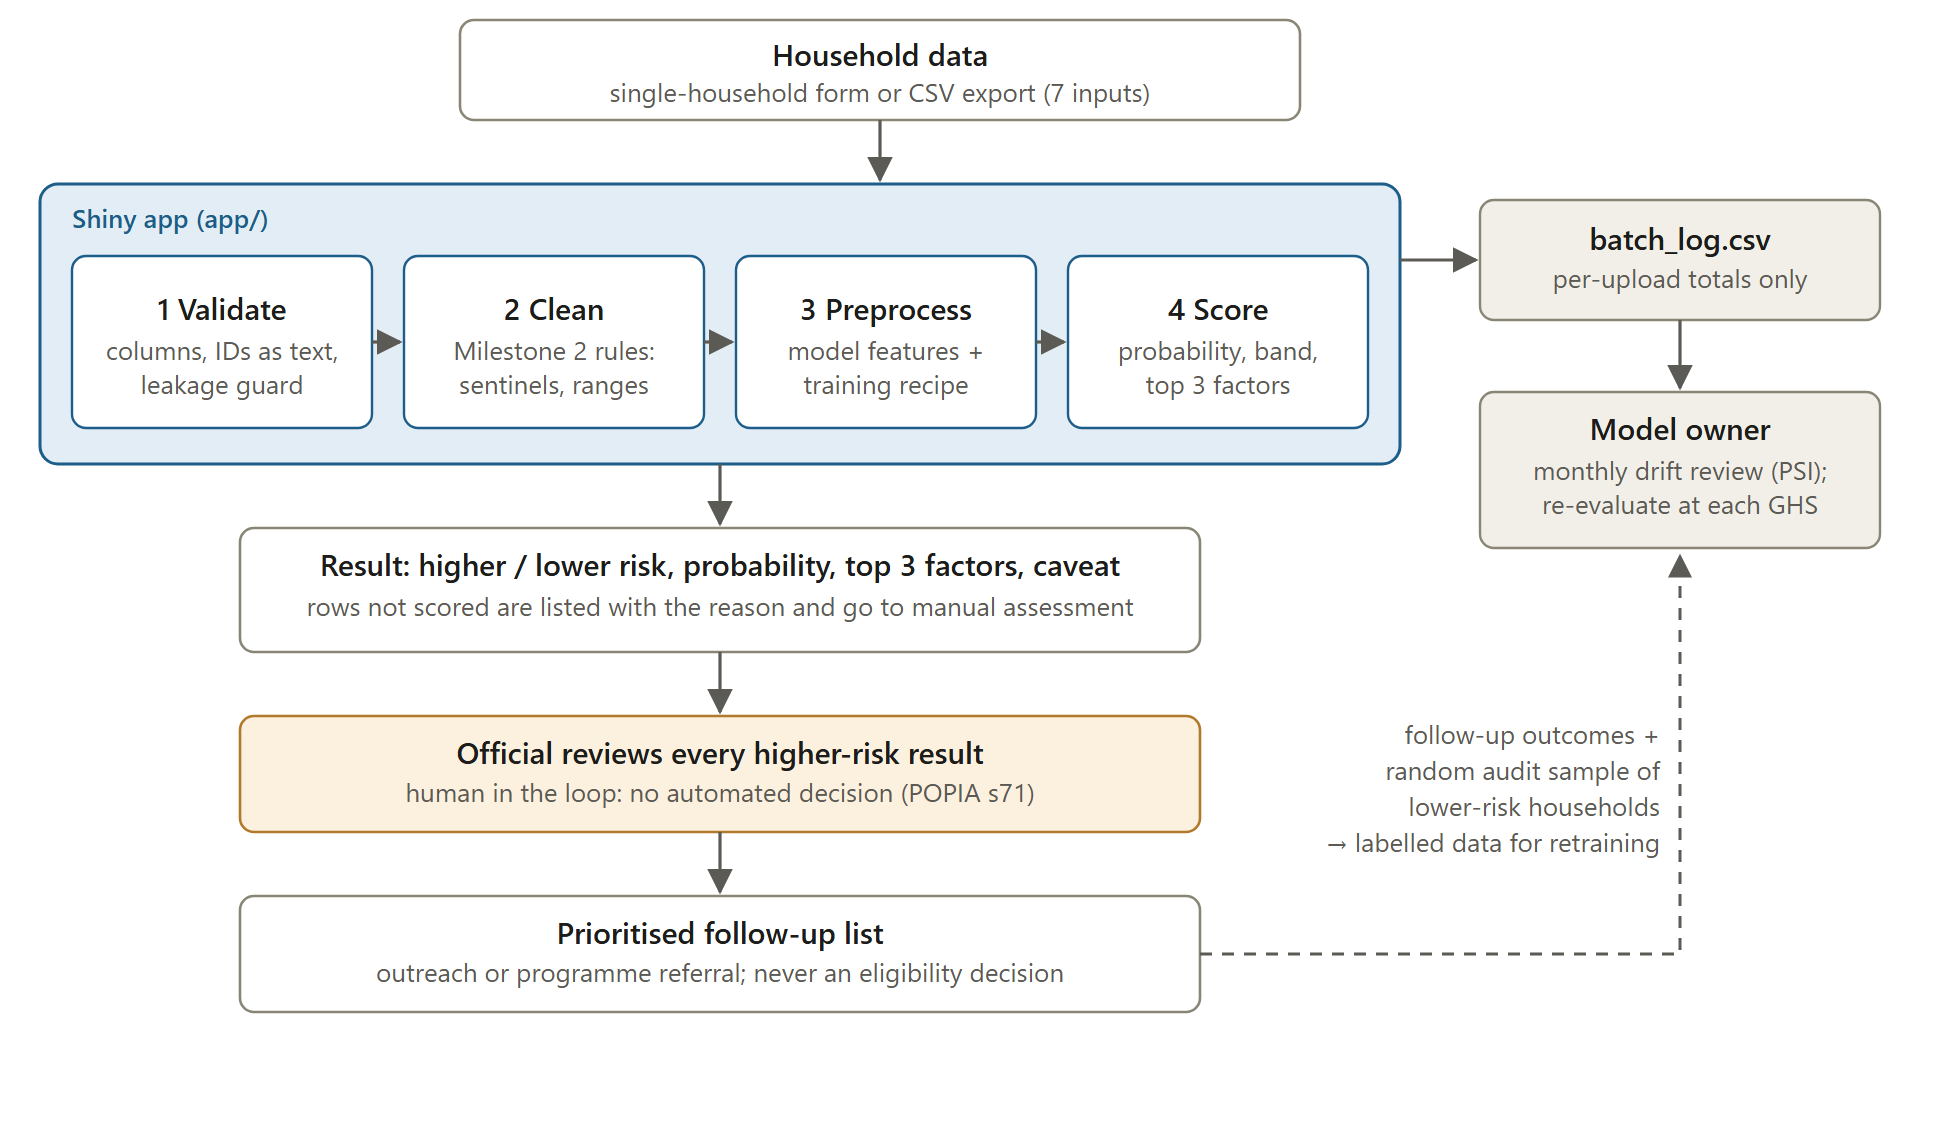
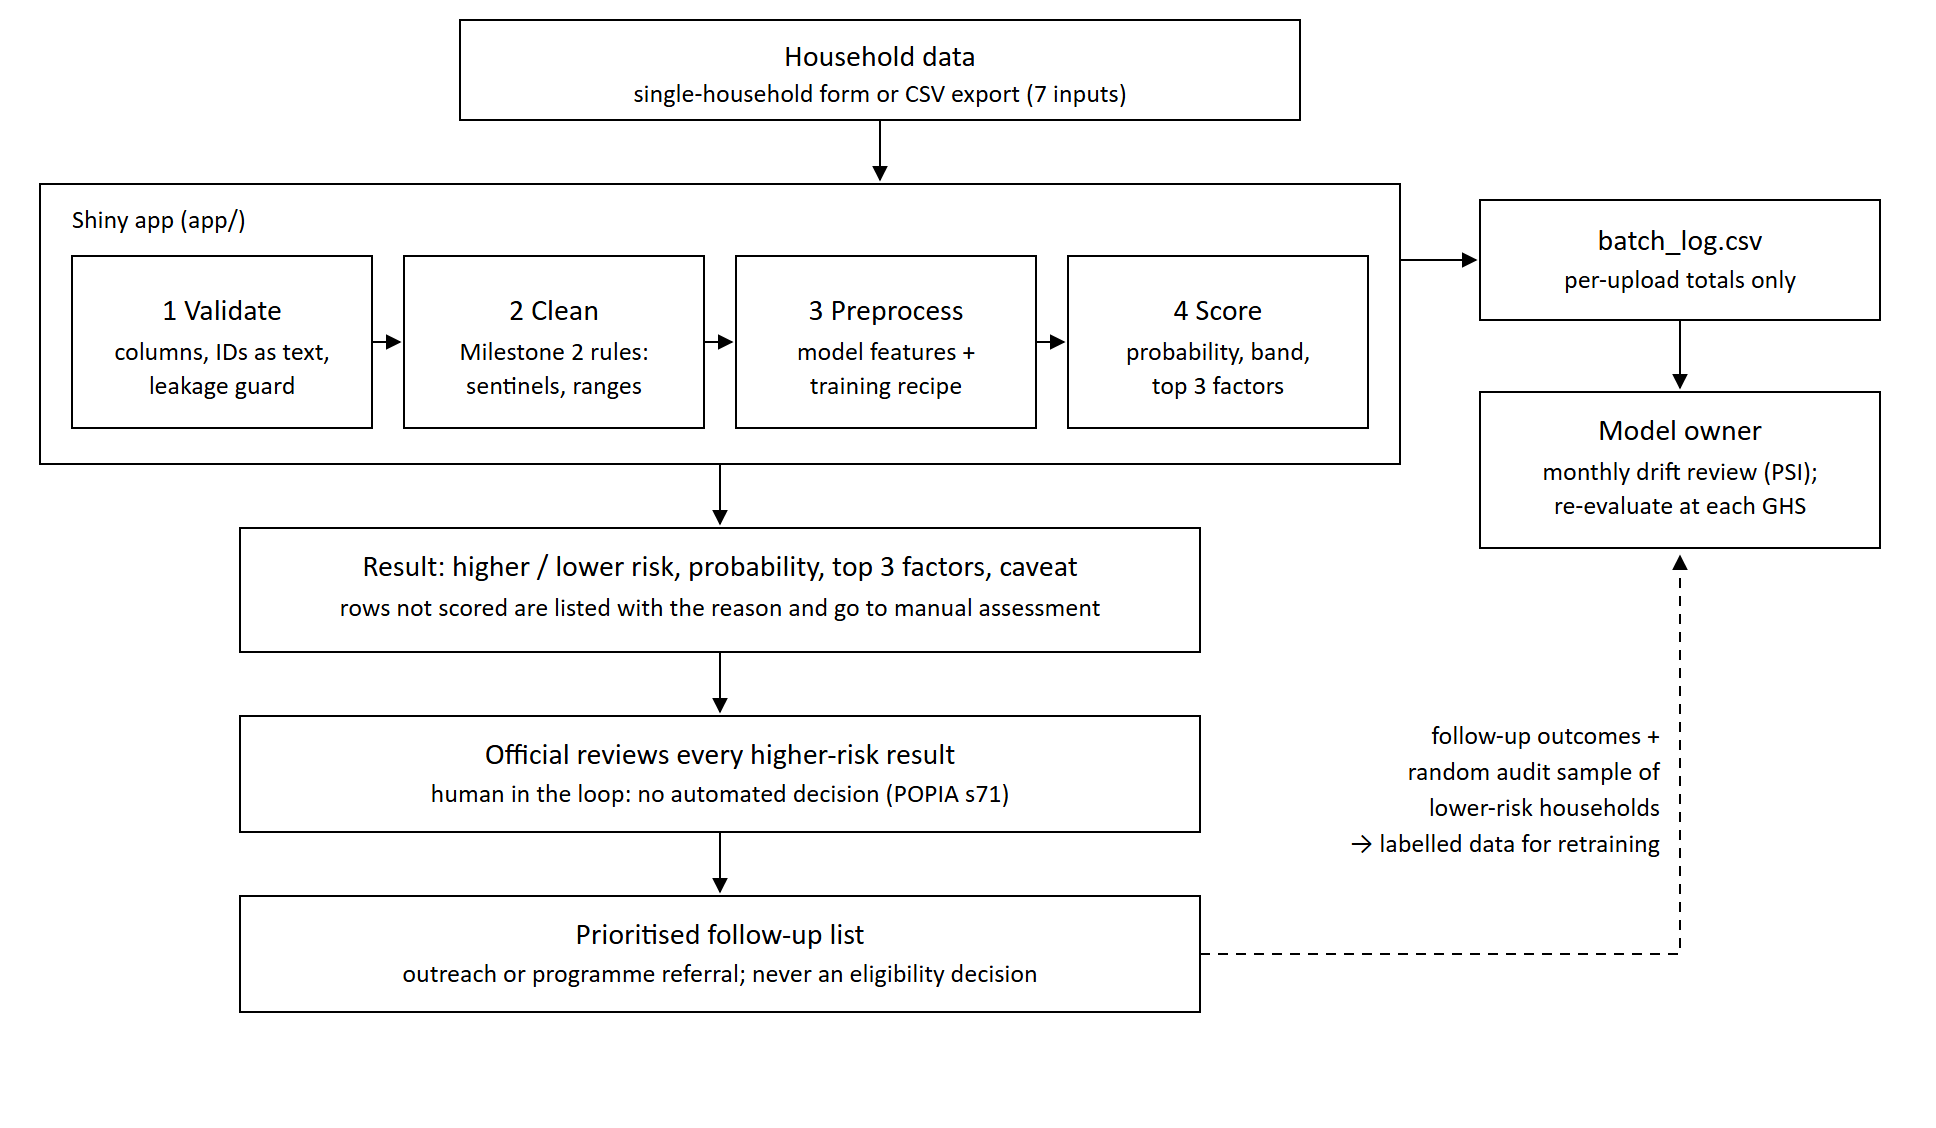
Full leakage list in the app, plain workflow diagram, re-knitted full notebook
- validate.R ignores all 16 leakage columns from Person A's notebook (work split v2)
- deployment workflow diagram redrawn in plain black and white
- full Milestone 3 notebook re-knitted with section 1.14 (class weights)

diff --git a/notebook/BIN-381-Milestone-3---Full-Notebook-Group-P1.html b/notebook/BIN-381-Milestone-3---Full-Notebook-Group-P1.html
@@ -11,7 +11,7 @@
 
 <meta name="author" content="Group P1: Alexander Solomon (Person A), Rudi Jan du Plessis (Person B), Timothy Wubbeling (Person C)" />
 
-<meta name="date" content="2026-10-05" />
+<meta name="date" content="2026-10-06" />
 
 <title>BIN381 Milestone 3 - Modelling, Evaluation and Deployment</title>
 
@@ -2754,7 +2754,7 @@ border-radius: 0px;
 and Deployment</h1>
 <h4 class="author">Group P1: Alexander Solomon (Person A), Rudi Jan du
 Plessis (Person B), Timothy Wubbeling (Person C)</h4>
-<h4 class="date">2026-10-05</h4>
+<h4 class="date">2026-10-06</h4>
 
 </div>
 
@@ -3319,6 +3319,129 @@ stopifnot(&quot;.pred_insecure&quot; %in% names(pred_check))
 saveRDS(final_binary, file.path(OUT_DIR, &quot;final_workflow_binary.rds&quot;))
 cat(&quot;Binary fallback model exported. Columns:&quot;, paste(names(pred_check), collapse = &quot;, &quot;), &quot;\n&quot;)</code></pre>
 <pre><code>## Binary fallback model exported. Columns: .pred_secure, .pred_insecure</code></pre>
+</div>
+<div id="class-weights-compared-with-plain-stratification" class="section level1">
+<h1>1.14 Class Weights Compared with Plain Stratification</h1>
+<p>The work split asks for class imbalance to be handled with class
+weights or stratification, and for the two to be compared. Section 1.7
+computed frequency-inverse class weights; here they are applied. The
+tuned multinomial logistic regression from 1.9 is refitted on the same
+five folds twice: once with stratified folds only (the setting used for
+every model above) and once with the class weights added as case
+weights. Nothing else differs.</p>
+<pre class="r"><code>train_w &lt;- train %&gt;%
+  mutate(case_wt = hardhat::importance_weights(
+    class_weights$weight[match(Vulnerability_Tier, class_weights$Vulnerability_Tier)]))
+
+# Same steps as rec_linear; the importance-weight column gets the case-weights role automatically.
+rec_linear_w &lt;- recipe(Vulnerability_Tier ~ ., data = train_w %&gt;% select(-HouseholdID, -Food_Insecure_Binary)) %&gt;%
+  step_impute_median(all_numeric_predictors()) %&gt;%
+  step_impute_mode(all_nominal_predictors()) %&gt;%
+  step_other(MainToiletCode, threshold = 0.02) %&gt;%
+  step_novel(all_nominal_predictors()) %&gt;%
+  step_dummy(all_nominal_predictors()) %&gt;%
+  step_zv(all_predictors()) %&gt;%
+  step_normalize(all_numeric_predictors())
+
+spec_logistic_best &lt;- finalize_model(spec_logistic, best_logistic)
+
+set.seed(381)
+folds_w &lt;- vfold_cv(train_w, v = 5, strata = Vulnerability_Tier)
+stopifnot(all(map2_lgl(folds$splits, folds_w$splits, ~ identical(.x$in_id, .y$in_id))))  # identical folds
+
+metrics_cw &lt;- metric_set(roc_auc, bal_accuracy, accuracy, brier_class)
+ctrl_cw &lt;- control_resamples(save_pred = TRUE)
+
+res_plain &lt;- fit_resamples(
+  workflow() %&gt;% add_recipe(rec_linear) %&gt;% add_model(spec_logistic_best),
+  resamples = folds, metrics = metrics_cw, control = ctrl_cw)
+res_weighted &lt;- fit_resamples(
+  workflow() %&gt;% add_recipe(rec_linear_w) %&gt;% add_model(spec_logistic_best) %&gt;% add_case_weights(case_wt),
+  resamples = folds_w, metrics = metrics_cw, control = ctrl_cw)</code></pre>
+<pre class="r"><code>summarise_cv &lt;- function(res, label) {
+  m &lt;- collect_metrics(res) %&gt;% select(.metric, mean) %&gt;%
+    pivot_wider(names_from = .metric, values_from = mean)
+  r &lt;- collect_predictions(res) %&gt;%
+    group_by(Vulnerability_Tier) %&gt;%
+    summarise(recall = mean(.pred_class == Vulnerability_Tier), .groups = &quot;drop&quot;) %&gt;%
+    pivot_wider(names_from = Vulnerability_Tier, values_from = recall, names_prefix = &quot;recall_&quot;)
+  bind_cols(tibble(setting = label), m, r)
+}
+class_weight_cmp &lt;- bind_rows(
+  summarise_cv(res_plain,    &quot;Stratified folds only&quot;),
+  summarise_cv(res_weighted, &quot;Stratified folds + class weights&quot;)
+) %&gt;%
+  select(setting, roc_auc, bal_accuracy, accuracy, brier_class,
+         recall_Food_secure, recall_Food_insecure, recall_Severely_food_insecure)
+
+kable(class_weight_cmp, digits = 3,
+      caption = &quot;Multinomial logistic regression, 5-fold CV: with and without class weights&quot;)</code></pre>
+<table>
+<caption>Multinomial logistic regression, 5-fold CV: with and without
+class weights</caption>
+<colgroup>
+<col width="22%" />
+<col width="5%" />
+<col width="8%" />
+<col width="6%" />
+<col width="8%" />
+<col width="13%" />
+<col width="14%" />
+<col width="20%" />
+</colgroup>
+<thead>
+<tr class="header">
+<th align="left">setting</th>
+<th align="right">roc_auc</th>
+<th align="right">bal_accuracy</th>
+<th align="right">accuracy</th>
+<th align="right">brier_class</th>
+<th align="right">recall_Food_secure</th>
+<th align="right">recall_Food_insecure</th>
+<th align="right">recall_Severely_food_insecure</th>
+</tr>
+</thead>
+<tbody>
+<tr class="odd">
+<td align="left">Stratified folds only</td>
+<td align="right">0.669</td>
+<td align="right">0.562</td>
+<td align="right">0.715</td>
+<td align="right">0.205</td>
+<td align="right">0.955</td>
+<td align="right">0.000</td>
+<td align="right">0.258</td>
+</tr>
+<tr class="even">
+<td align="left">Stratified folds + class weights</td>
+<td align="right">0.680</td>
+<td align="right">0.623</td>
+<td align="right">0.559</td>
+<td align="right">0.289</td>
+<td align="right">0.597</td>
+<td align="right">0.256</td>
+<td align="right">0.587</td>
+</tr>
+</tbody>
+</table>
+<pre class="r"><code>write_csv(class_weight_cmp, file.path(OUT_DIR, &quot;class_weight_comparison.csv&quot;))
+
+pct &lt;- function(x) sprintf(&quot;%.1f%%&quot;, 100 * x)
+cw &lt;- function(col, row) class_weight_cmp[[col]][row]</code></pre>
+<p>Class weights move the predictions towards the minority tiers. Recall
+for the middle tier rises from 0.0% to 25.6% and for the severe tier
+from 25.8% to 58.7%, but recall for food-secure households falls from
+95.5% to 59.7% and accuracy from 71.5% to 55.9%. Ranking improves only
+slightly (Hand-Till AUC 0.669 against 0.680), while the probabilities
+become much less trustworthy: the Brier score worsens from 0.205 to
+0.289, because the weights distort the base rates the model learns. Even
+with weights, about three in four middle-tier households are still
+missed, which supports the binary fallback in 1.13.</p>
+<p>The unweighted models are therefore kept. Imbalance is handled by
+stratified folds and, for deployment, by a recall-based threshold on
+calibrated probabilities (Person B, Task 2). That reaches the recall
+target without distorting the probabilities the app shows to
+officials.</p>
 <div id="deployed-model" class="section level2">
 <h2>Deployed model</h2>
 <p>The app serves Part A’s binary model (section 1.13). It is copied to
@@ -4791,19 +4914,19 @@ kable(enframe(train_seconds, &quot;model&quot;, &quot;seconds_to_fit&quot;), dig
 <tbody>
 <tr class="odd">
 <td align="left">logistic</td>
-<td align="right">0.7</td>
+<td align="right">1.1</td>
 </tr>
 <tr class="even">
 <td align="left">tree</td>
-<td align="right">0.4</td>
+<td align="right">0.5</td>
 </tr>
 <tr class="odd">
 <td align="left">forest</td>
-<td align="right">6.9</td>
+<td align="right">10.0</td>
 </tr>
 <tr class="even">
 <td align="left">binary</td>
-<td align="right">0.4</td>
+<td align="right">0.7</td>
 </tr>
 </tbody>
 </table>
@@ -4988,7 +5111,7 @@ three-tier columns are blank for the binary model)</caption>
 <td align="right">0.180</td>
 <td align="right">0.012</td>
 <td align="right">-0.001</td>
-<td align="right">0.41</td>
+<td align="right">0.69</td>
 </tr>
 <tr class="even">
 <td align="left">Random forest (ranger)</td>
@@ -5007,7 +5130,7 @@ three-tier columns are blank for the binary model)</caption>
 <td align="right">0.177</td>
 <td align="right">0.012</td>
 <td align="right">0.177</td>
-<td align="right">6.89</td>
+<td align="right">9.98</td>
 </tr>
 <tr class="odd">
 <td align="left">Multinomial logistic (glmnet)</td>
@@ -5026,7 +5149,7 @@ three-tier columns are blank for the binary model)</caption>
 <td align="right">0.180</td>
 <td align="right">0.010</td>
 <td align="right">0.006</td>
-<td align="right">0.74</td>
+<td align="right">1.09</td>
 </tr>
 <tr class="even">
 <td align="left">Decision tree (rpart)</td>
@@ -5045,7 +5168,7 @@ three-tier columns are blank for the binary model)</caption>
 <td align="right">0.187</td>
 <td align="right">0.040</td>
 <td align="right">0.072</td>
-<td align="right">0.37</td>
+<td align="right">0.51</td>
 </tr>
 </tbody>
 </table>
@@ -6223,7 +6346,7 @@ list.files(OUT_DIR)</code></pre>
 ## tzcode source: internal
 ## 
 ## attached base packages:
-## [1] stats     graphics  grDevices utils     datasets  methods   base     
+## [1] stats     graphics  grDevices datasets  utils     methods   base     
 ## 
 ## other attached packages:
 ##  [1] knitr_1.52         glmnet_5.1         Matrix_1.7-5       ranger_0.18.0     
@@ -6251,16 +6374,16 @@ list.files(OUT_DIR)</code></pre>
 ## [37] yaml_2.3.12         timeDate_4052.112   codetools_0.2-20   
 ## [40] listenv_1.0.0       lattice_0.22-9      withr_3.0.3        
 ## [43] S7_0.2.2            evaluate_1.0.5      future_1.75.0      
-## [46] survival_3.8-6      pillar_1.11.1       foreach_1.5.2      
-## [49] generics_0.1.4      vroom_1.7.1         hms_1.1.4          
-## [52] globals_0.19.1      class_7.3-23        glue_1.8.1         
-## [55] tools_4.6.1         data.table_1.18.6.1 gower_1.0.2        
-## [58] grid_4.6.1          ipred_0.9-16        sfd_0.1.0          
-## [61] cli_3.6.6           DiceDesign_1.10     lava_1.9.3         
-## [64] gtable_0.3.6        sass_0.4.10         digest_0.6.39      
-## [67] farver_2.1.2        memoise_2.0.1       htmltools_0.5.9    
-## [70] lifecycle_1.0.5     hardhat_1.4.3       bit64_4.8.6        
-## [73] MASS_7.3-65         sparsevctrs_0.3.6</code></pre>
+## [46] survival_3.8-6      pillar_1.11.1       renv_1.3.0         
+## [49] foreach_1.5.2       generics_0.1.4      vroom_1.7.1        
+## [52] hms_1.1.4           globals_0.19.1      class_7.3-23       
+## [55] glue_1.8.1          tools_4.6.1         data.table_1.18.6.1
+## [58] gower_1.0.2         grid_4.6.1          ipred_0.9-16       
+## [61] sfd_0.1.0           cli_3.6.6           DiceDesign_1.10    
+## [64] lava_1.9.3          gtable_0.3.6        sass_0.4.10        
+## [67] digest_0.6.39       farver_2.1.2        memoise_2.0.1      
+## [70] htmltools_0.5.9     lifecycle_1.0.5     hardhat_1.4.3      
+## [73] bit64_4.8.6         MASS_7.3-65         sparsevctrs_0.3.6</code></pre>
 </div>
 <div id="part-c---deployment-monitoring-and-ethics-timothy-wubbeling" class="section level1">
 <h1>Part C - Deployment, Monitoring and Ethics (Timothy Wubbeling)</h1>
@@ -7333,7 +7456,7 @@ size)</td>
 ## tzcode source: internal
 ## 
 ## attached base packages:
-## [1] stats     graphics  grDevices utils     datasets  methods   base     
+## [1] stats     graphics  grDevices datasets  utils     methods   base     
 ## 
 ## other attached packages:
 ##  [1] knitr_1.52         glmnet_5.1         Matrix_1.7-5       ranger_0.18.0     
@@ -7361,16 +7484,16 @@ size)</td>
 ## [37] yaml_2.3.12         timeDate_4052.112   codetools_0.2-20   
 ## [40] listenv_1.0.0       lattice_0.22-9      withr_3.0.3        
 ## [43] S7_0.2.2            evaluate_1.0.5      future_1.75.0      
-## [46] survival_3.8-6      pillar_1.11.1       foreach_1.5.2      
-## [49] generics_0.1.4      vroom_1.7.1         hms_1.1.4          
-## [52] globals_0.19.1      class_7.3-23        glue_1.8.1         
-## [55] tools_4.6.1         data.table_1.18.6.1 gower_1.0.2        
-## [58] grid_4.6.1          ipred_0.9-16        sfd_0.1.0          
-## [61] cli_3.6.6           DiceDesign_1.10     lava_1.9.3         
-## [64] gtable_0.3.6        sass_0.4.10         digest_0.6.39      
-## [67] farver_2.1.2        memoise_2.0.1       htmltools_0.5.9    
-## [70] lifecycle_1.0.5     hardhat_1.4.3       bit64_4.8.6        
-## [73] MASS_7.3-65         sparsevctrs_0.3.6</code></pre>
+## [46] survival_3.8-6      pillar_1.11.1       renv_1.3.0         
+## [49] foreach_1.5.2       generics_0.1.4      vroom_1.7.1        
+## [52] hms_1.1.4           globals_0.19.1      class_7.3-23       
+## [55] glue_1.8.1          tools_4.6.1         data.table_1.18.6.1
+## [58] gower_1.0.2         grid_4.6.1          ipred_0.9-16       
+## [61] sfd_0.1.0           cli_3.6.6           DiceDesign_1.10    
+## [64] lava_1.9.3          gtable_0.3.6        sass_0.4.10        
+## [67] digest_0.6.39       farver_2.1.2        memoise_2.0.1      
+## [70] htmltools_0.5.9     lifecycle_1.0.5     hardhat_1.4.3      
+## [73] bit64_4.8.6         MASS_7.3-65         sparsevctrs_0.3.6</code></pre>
 </div>
 
 
